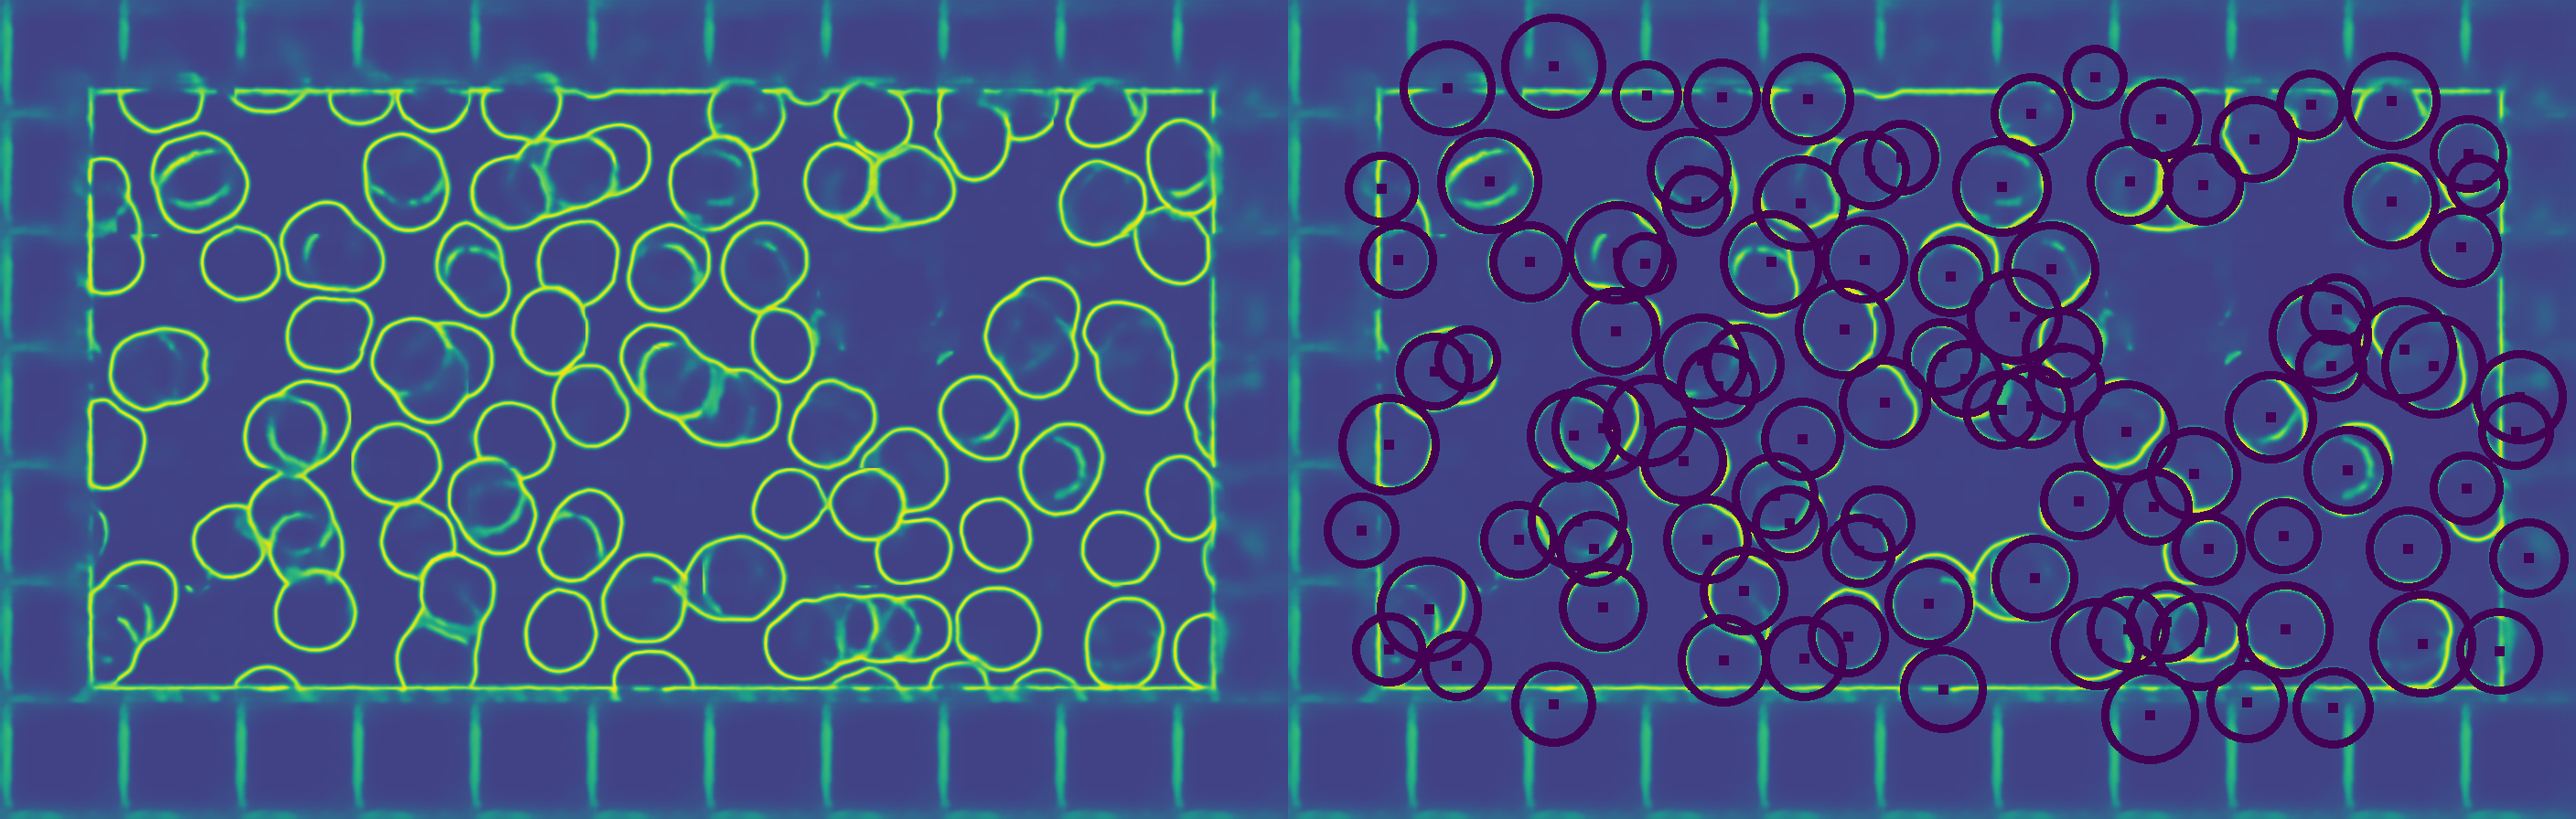
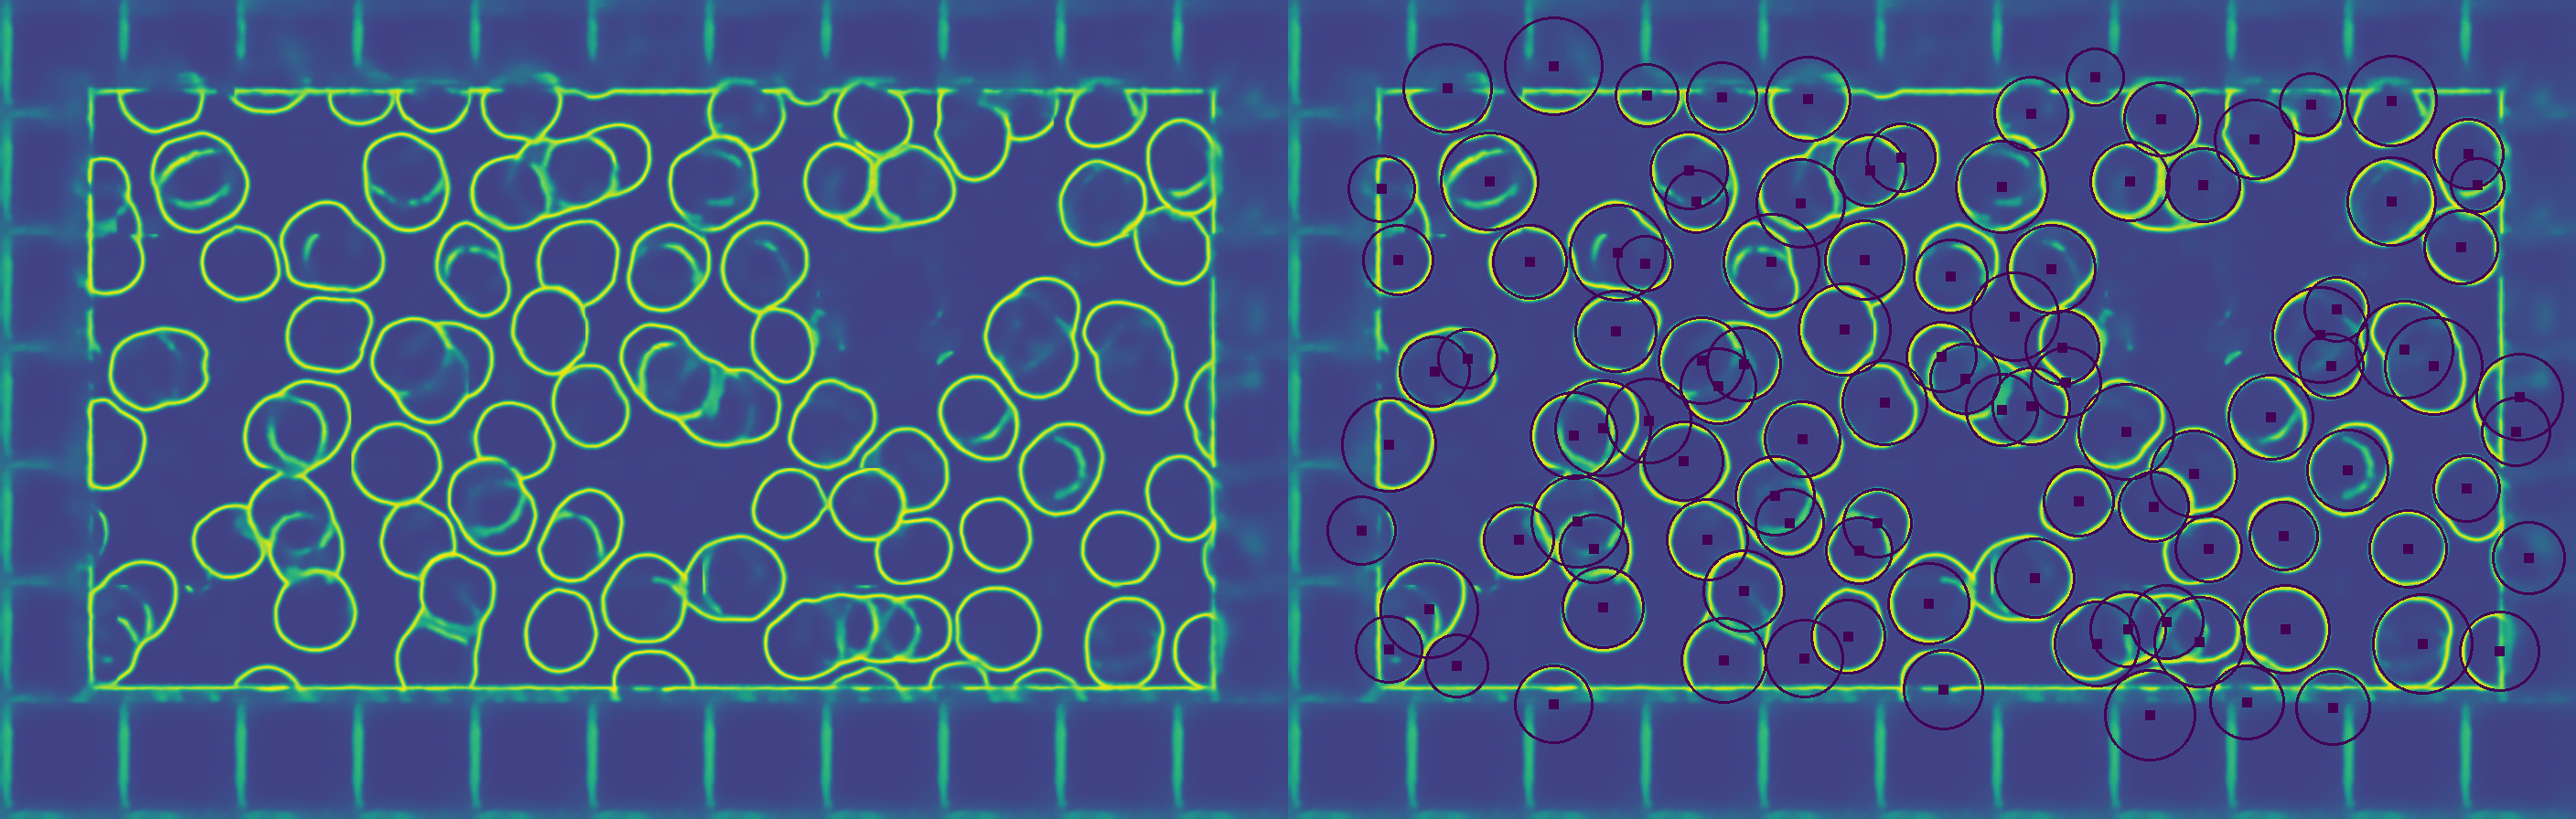
Updated hough transform circles!

diff --git a/src/run.py b/src/run.py
@@ -158,7 +158,7 @@ def predict(img='Im037_0.jpg',
     new_mask_chips = reshape(new_mask_chips, dimensions[0], dimensions[1])
     new_edge_chips = reshape(new_edge_chips, dimensions[0], dimensions[1])
 
-    # get rid of [1] dimension
+    # get rid of none necessary dimension
     new_mask_chips = np.squeeze(new_mask_chips)
     new_edge_chips = np.squeeze(new_edge_chips)
 
@@ -281,7 +281,7 @@ def hough_transform(img='edge.png'):
         for (x, y, r) in circles:
             # draw the circle in the output image, then draw a rectangle
             # corresponding to the center of the circle
-            cv2.circle(output, (x, y), r, (0, 0, 255), 8)
+            cv2.circle(output, (x, y), r, (0, 0, 255), 2)
             cv2.rectangle(output, (x - 5, y - 5), (x + 5, y + 5), (0, 0, 255), -1)
         # save the output image
         plt.imsave('output/hough_transform.png',
@@ -353,7 +353,7 @@ def distance_transform(img='threshold_edge_mask.png'):
 if __name__ == '__main__':
     # train('mse_unsupervised')
     # evaluate(model_name='mse')
-    predict(model_name='mse')
+    predict(model_name='mse', img='Im037_0.jpg')
     threshold('mask.png')
     threshold('edge.png')
     threshold('edge_mask.png')
